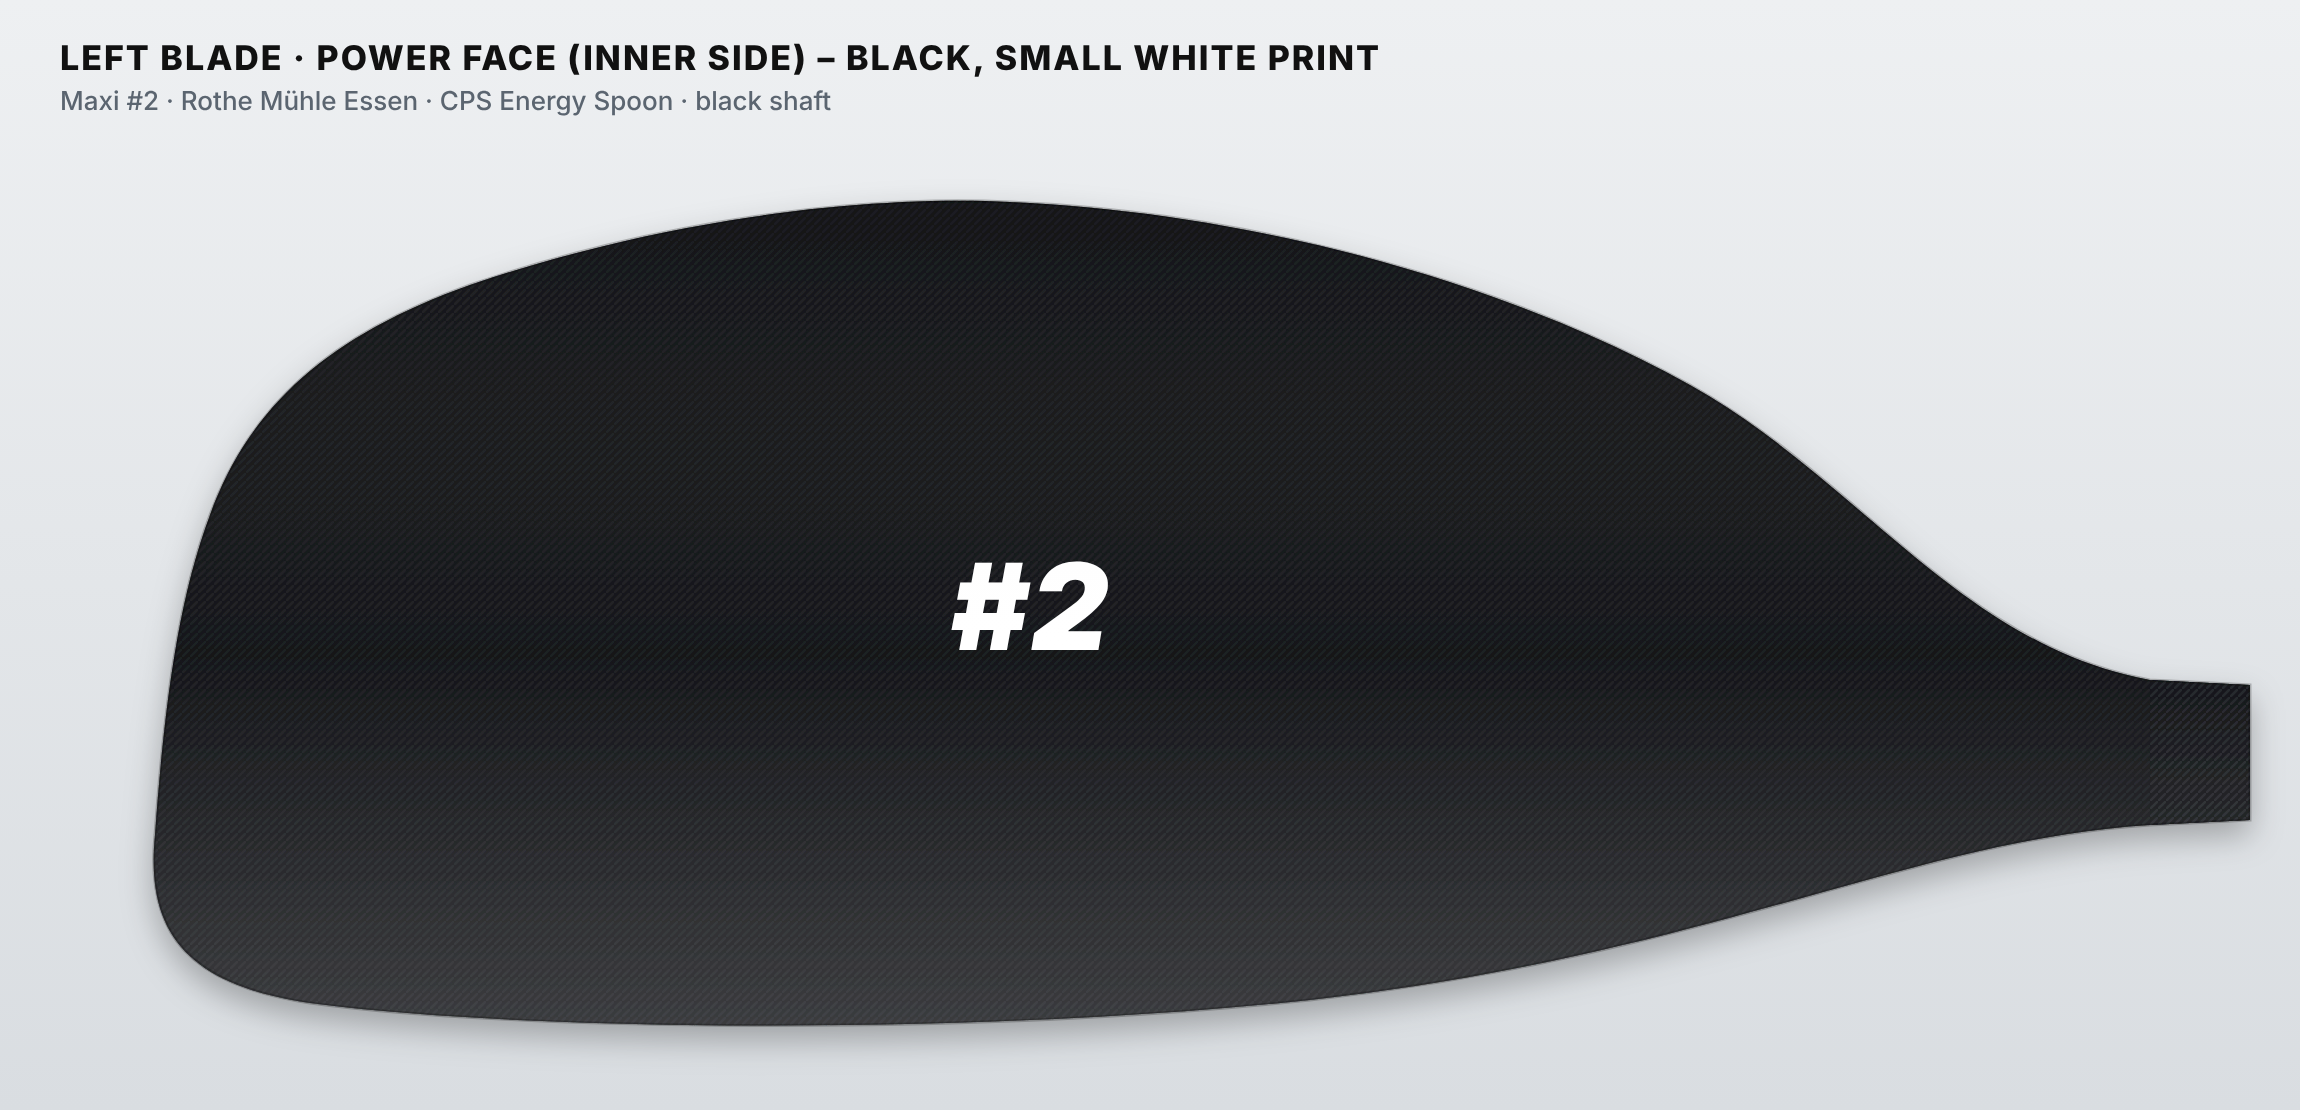
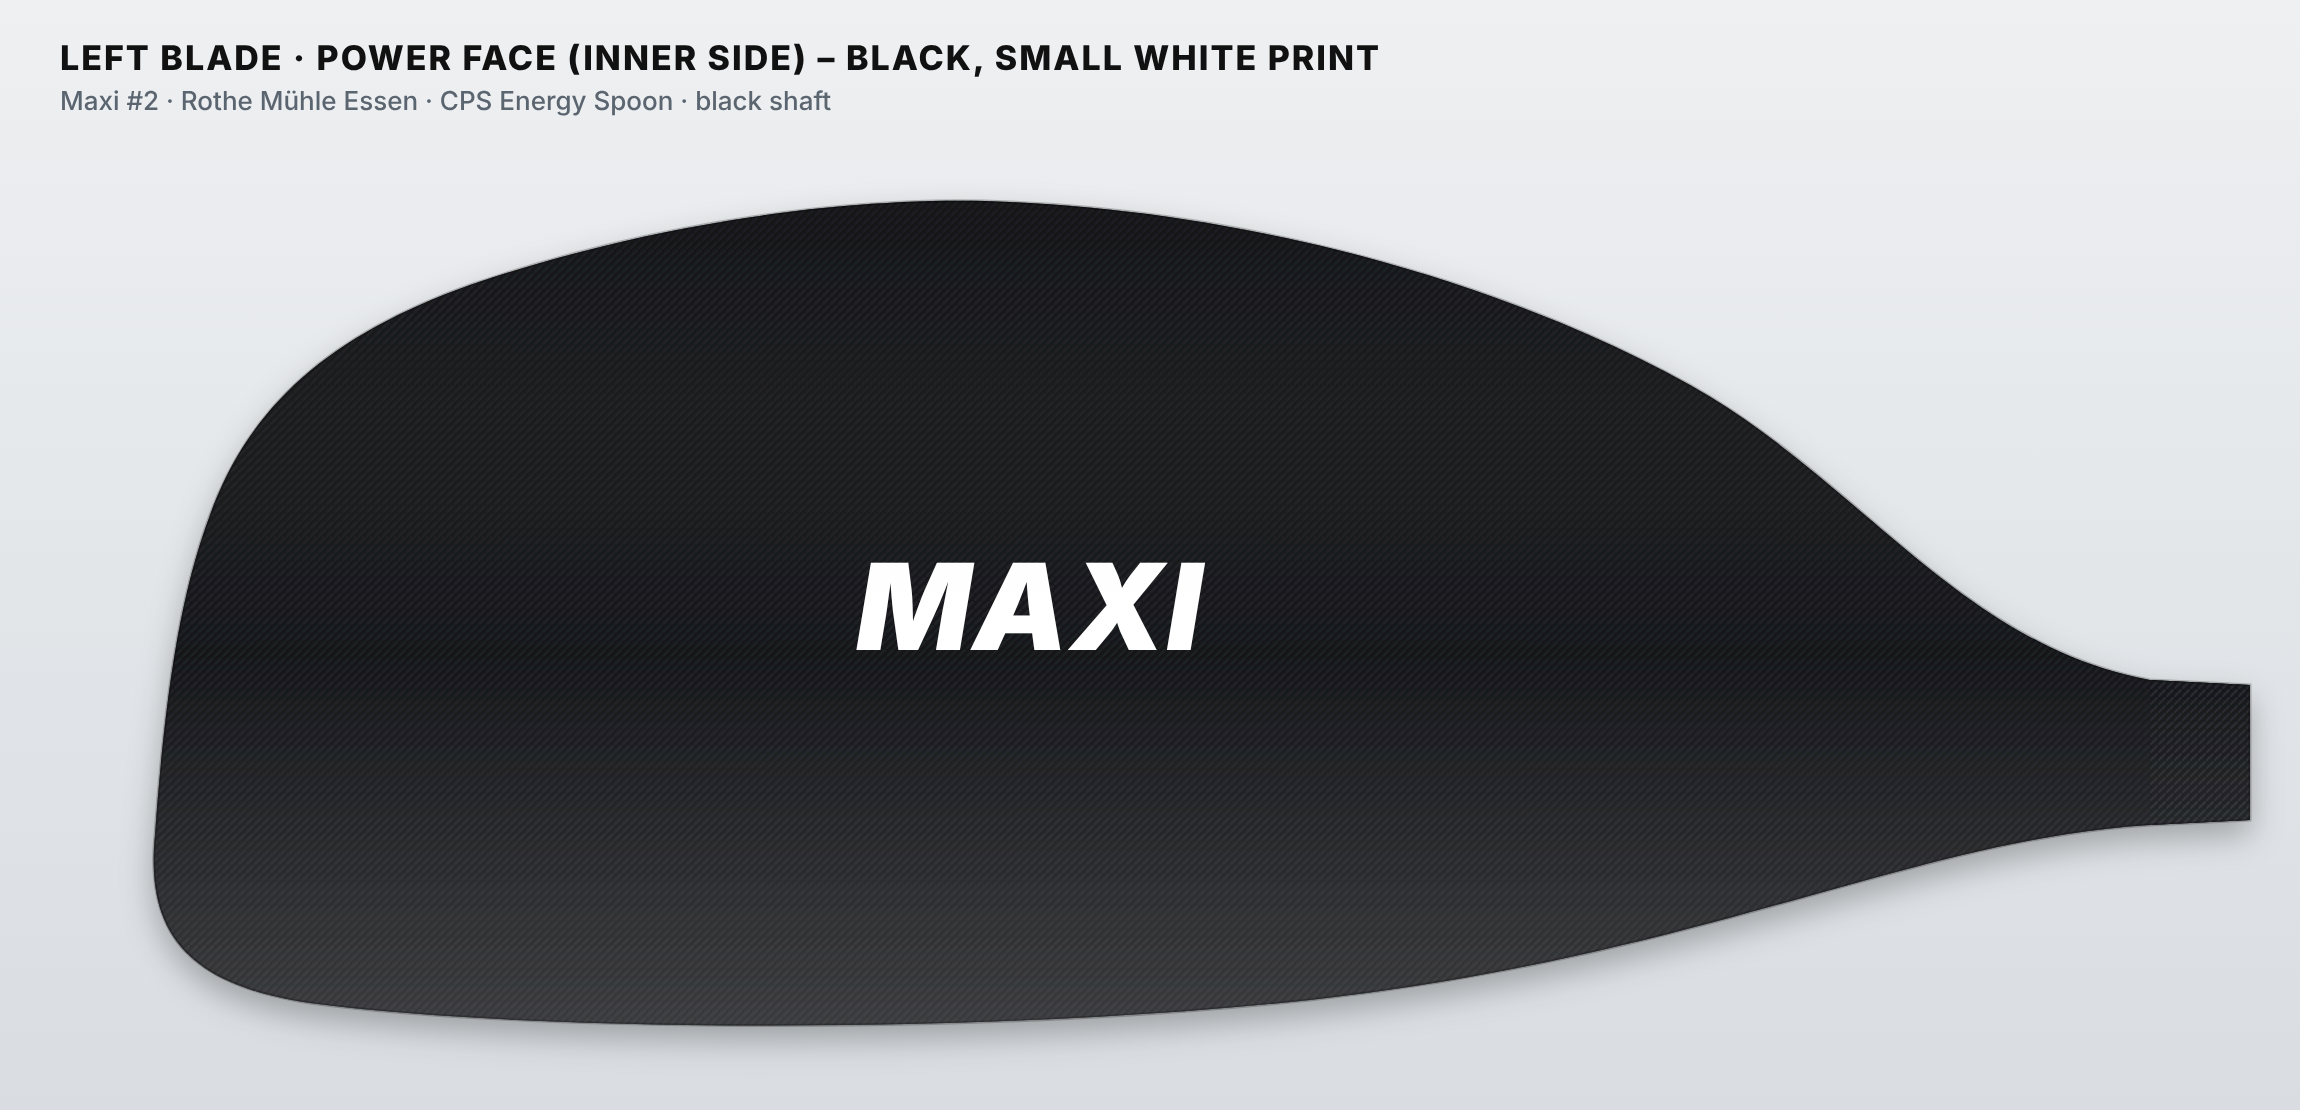
Paddle design: restore divider, crest in upper corner with MAXI / #2 below
Claude-Session: https://claude.ai/code/session_01DX4xT44m4txGG7n6gz6xyQ

Changed region(s): [[0.3704, 0.4901, 0.5248, 0.582]]

diff --git a/maxi-paddel/build/design.js b/maxi-paddel/build/design.js
@@ -15,8 +15,8 @@ const HAND = { caveat: 'caveat-latin-700-normal', marker: 'permanent-marker-lati
 const FONT_CSS = Object.entries(HAND).map(([k, f]) => `@font-face{font-family:'hand-${k}';src:url(data:font/woff2;base64,${fs.readFileSync(path.join(OUT, 'assets/fonts', f + '.woff2')).toString('base64')}) format('woff2');}`).join('');
 // example names – the team signs the real paddle by hand
 const SIGS = {
-  R: [['Marvin', 'marker', 86, 920, 275, -6], ['Lara', 'caveat', 120, 1265, 300, 5], ['Nille', 'rock', 62, 850, 470, 4], ['Gabor', 'grace', 110, 1200, 500, -7], ['Henry', 'nothing', 80, 950, 655, -3]],
-  L: [['Lasse', 'caveat', 120, 930, 285, -5], ['Silas', 'marker', 84, 1270, 300, 6], ['Spjalle', 'grace', 108, 870, 480, 5], ['Jill', 'rock', 64, 1240, 500, -6], ['Amira', 'reenie', 130, 970, 660, -4]],
+  R: [['Marvin', 'marker', 86, 880, 275, -6], ['Lara', 'caveat', 120, 1225, 300, 5], ['Nille', 'rock', 62, 810, 470, 4], ['Gabor', 'grace', 110, 1160, 500, -7], ['Henry', 'nothing', 80, 910, 655, -3]],
+  L: [['Lasse', 'caveat', 120, 890, 285, -5], ['Silas', 'marker', 84, 1230, 300, 6], ['Spjalle', 'grace', 108, 830, 480, 5], ['Jill', 'rock', 64, 1200, 500, -6], ['Amira', 'reenie', 130, 930, 660, -4]],
 };
 
 // Blade outline, traced from the CPS Energy Spoon product photo.
@@ -59,7 +59,7 @@ function art(variant, side, face, X, sample = false) {
   // inner (power) face: original black CPS carbon, only a small white name / number
   if (face === 'front') {
     shapes = `<rect x="-300" y="-20" width="2600" height="900" fill="#17181b"/><rect x="-300" y="-20" width="2600" height="900" fill="url(#carbon)" opacity="0.55"/>`;
-    marks = txt(X(1080), 455, 120, WHITE, R ? 'MAXI' : '#2', { ls: 2 });
+    marks = txt(X(1080), 455, 120, WHITE, R ? '#2' : 'MAXI', { ls: 2 });
     return { shapes, marks };
   }
   const A = variant === 'A';
@@ -68,17 +68,20 @@ function art(variant, side, face, X, sample = false) {
   const neck = A ? WHITE : BLACK;
   shapes += `<rect x="-300" y="-20" width="2600" height="900" fill="url(#redG)"/>`;
   shapes += field(280, neck) + stripes(320, neck, 6, 58, 42, 6);
-  marks += crestAt(X(1700), 400, 370, WHITE);
-  marks += txt(X(1120), 128, 46, WHITE, 'ROTHE MÜHLE ESSEN', { ls: 9, w: 800 });
-  marks += `<rect x="${X(1120) - 280}" y="152" width="560" height="5" fill="${WHITE}" opacity="0.9"/>`;
+  shapes += `<path d="${slant(1480, 14)}" fill="${WHITE}"/>`;
+  marks += crestAt(X(1715), 255, 310, WHITE);
+  marks += R ? txt(X(1705), 560, 112, WHITE, 'MAXI', { ls: 1 }) : txt(X(1700), 570, 135, WHITE, '#2', { ls: -2 });
+  marks += txt(X(1090), 128, 46, WHITE, 'ROTHE MÜHLE ESSEN', { ls: 9, w: 800 });
+  marks += `<rect x="${X(1090) - 280}" y="152" width="560" height="5" fill="${WHITE}" opacity="0.9"/>`;
   if (sample) {
     for (const [name, font, size, u, v, rot] of SIGS[side]) {
       marks += `<text x="${X(u)}" y="${v}" font-family="hand-${font}" font-size="${size}" fill="#fff" fill-opacity="0.96" text-anchor="middle" transform="rotate(${rot} ${X(u)} ${v})">${name}</text>`;
     }
   } else {
-    marks += `<rect x="${X(1130) - 340}" y="200" width="680" height="500" rx="18" fill="none" stroke="#fff" stroke-opacity="0.55" stroke-width="3" stroke-dasharray="14 12"/>`;
-    marks += txt(X(1130), 440, 26, WHITE, 'SIGNATURE AREA – KEEP FREE (PLAIN RED)', { italic: false, w: 700, ls: 3 });
-    marks += txt(X(1130), 485, 22, WHITE, 'guide only – do not print this frame', { italic: false, w: 500 });
+    marks += `<rect x="${X(1080) - 310}" y="200" width="620" height="480" rx="18" fill="none" stroke="#fff" stroke-opacity="0.55" stroke-width="3" stroke-dasharray="14 12"/>`;
+    marks += txt(X(1080), 395, 30, WHITE, 'SIGNATURE AREA', { italic: false, w: 800, ls: 4 });
+    marks += txt(X(1080), 435, 22, WHITE, 'keep free – plain red, no print', { italic: false, w: 600 });
+    marks += txt(X(1080), 472, 20, WHITE, 'guide only – do not print this frame', { italic: false, w: 500 });
   }
   return { shapes, marks };
 }
@@ -150,9 +153,9 @@ function shaftSVG(variant) {
 function notes(x, y, variant) {
   const rows = [
     ['Paddle', 'CPS Energy Spoon blades (left + right) with CPS carbon shaft.'],
-    ['Back face (design side)', 'Print: black neck stripes on red, small white club crest at the tip, white text “ROTHE MÜHLE ESSEN” with line along the flat top edge. Same on both blades.'],
+    ['Back face (design side)', 'Print: black neck stripes on red, white divider line, small white club crest in the upper tip corner, below it “MAXI” (right blade) / “#2” (left blade), “ROTHE MÜHLE ESSEN” with line at the top edge.'],
     ['Signature area', 'The red area below “ROTHE MÜHLE ESSEN” must stay EMPTY (plain red). The team will sign there by hand. Hand-written names shown here are EXAMPLES – DO NOT PRINT.'],
-    ['Power face (inner side)', 'Original black CPS carbon finish. Small white print only: right blade “MAXI”, left blade “#2”. Nothing else.'],
+    ['Power face (inner side)', 'Original black CPS carbon finish. Small white print only: right blade “#2”, left blade “MAXI”. Nothing else.'],
     ['Shaft', variant === 'A' ? 'White shaft with red rings and red text.' : 'Standard black CPS carbon shaft. Red rings at both ends, white text “KSV ROTHE MÜHLE ESSEN”, mill-wheel icon, “MAXI #2”.'],
     ['Colours', 'Club red: HEX #E31E24 (RGB 227 / 30 / 36) – please match as closely as possible. Dark red in gradient: #B5121B. White: #FFFFFF. Black: #111214.'],
     ['Text (do not translate)', '“MAXI”, “#2”, “ROTHE MÜHLE ESSEN”, “KSV ROTHE MÜHLE ESSEN” (shaft), “1924” (part of the crest). Note the German letter “Ü”.'],
@@ -191,7 +194,7 @@ function boardSVG(variant) {
   ${label(60, 700, 'FULL PADDLE · POWER FACES', 'Inner side – original CPS black with small white name / number')}
   <g transform="translate(60 750) scale(${s})">${paddle(variant, 'front')}</g>
   ${tile('L', 'back', 60, 1130)}${tile('R', 'back', 1680, 1130)}
-  ${[0, 1].map((i) => `<g transform="translate(${i ? 1680 : 60} 1850) scale(0.36)">${bladeGroup(variant, i ? 'R' : 'L', 'front')}</g>` + label((i ? 1680 : 60) + 880, 1990, i ? NAME.R : NAME.L, i ? 'Power face – black, small white “MAXI”' : 'Power face – black, small white “#2”')).join('')}
+  ${[0, 1].map((i) => `<g transform="translate(${i ? 1680 : 60} 1850) scale(0.36)">${bladeGroup(variant, i ? 'R' : 'L', 'front')}</g>` + label((i ? 1680 : 60) + 880, 1990, i ? NAME.R : NAME.L, i ? 'Power face – black, small white “#2”' : 'Power face – black, small white “MAXI”')).join('')}
   ${label(60, 2330, 'SHAFT · CENTRE SECTION (ENLARGED)', 'Black CPS carbon shaft · white text · red rings at both ends')}
   <svg x="60" y="2400" width="3080" height="170" viewBox="${SL / 2 - 1340} -13 2680 148"><g filter="url(#sh)">${shaftGroup(variant)}</g></svg>
   ${notes(60, 2620, variant)}
